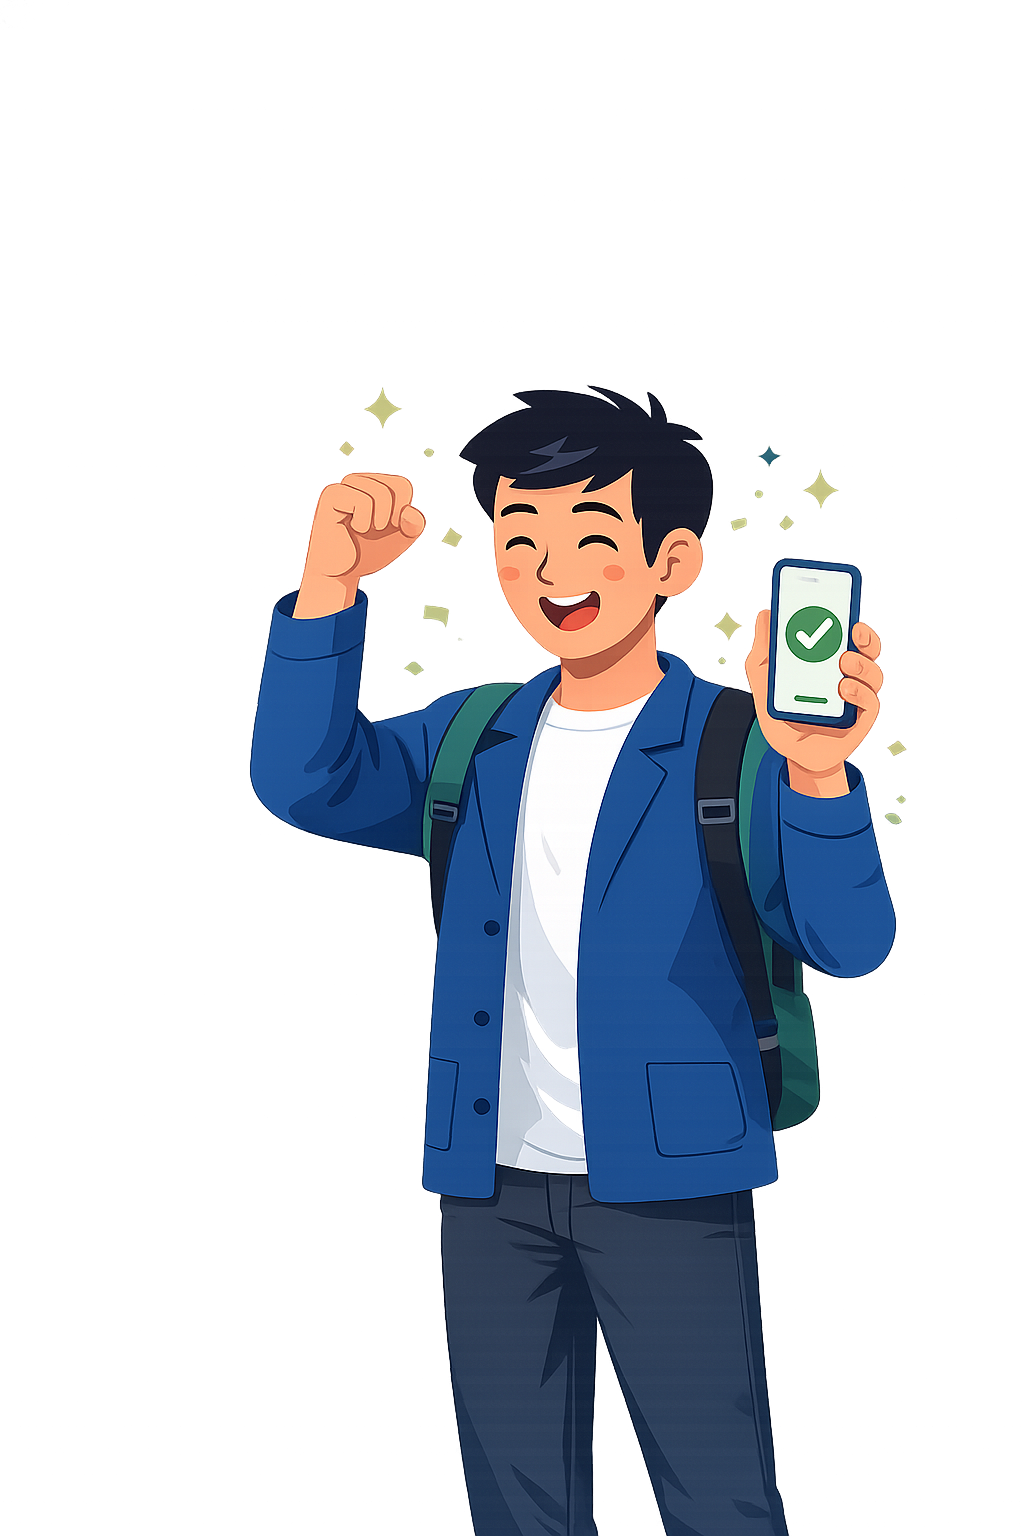
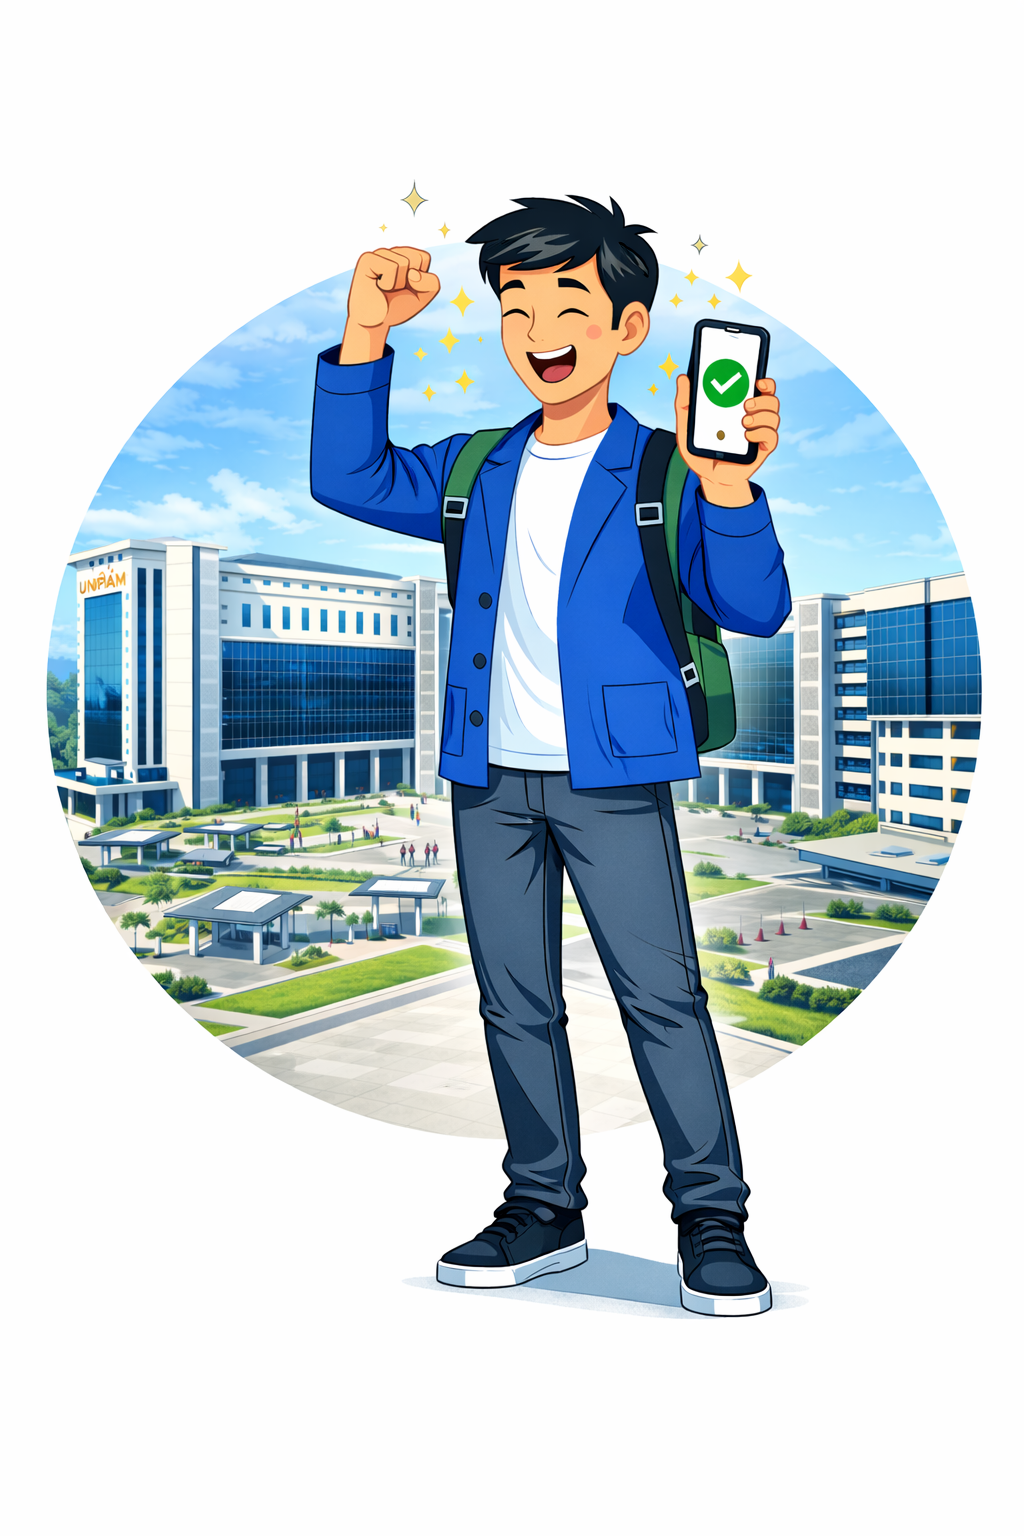
fix: remove wave background from success screen, update student illustration

diff --git a/apps/mobile_flutter/lib/features/scan/presentation/screens/attendance_success_screen.dart b/apps/mobile_flutter/lib/features/scan/presentation/screens/attendance_success_screen.dart
@@ -100,9 +100,6 @@ class _AttendanceSuccessScreenState extends State<AttendanceSuccessScreen>
       backgroundColor: Colors.white,
       body: Stack(
         children: [
-          // Wave Background
-          _buildWaveBackground(),
-
           // Confetti particles
           AnimatedBuilder(
             animation: _confettiAnim,
